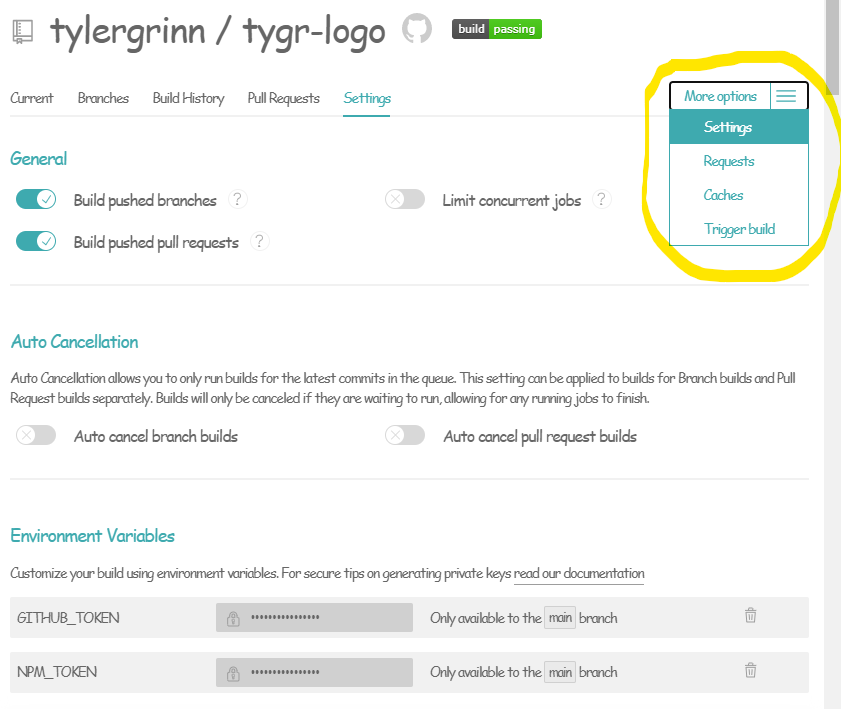
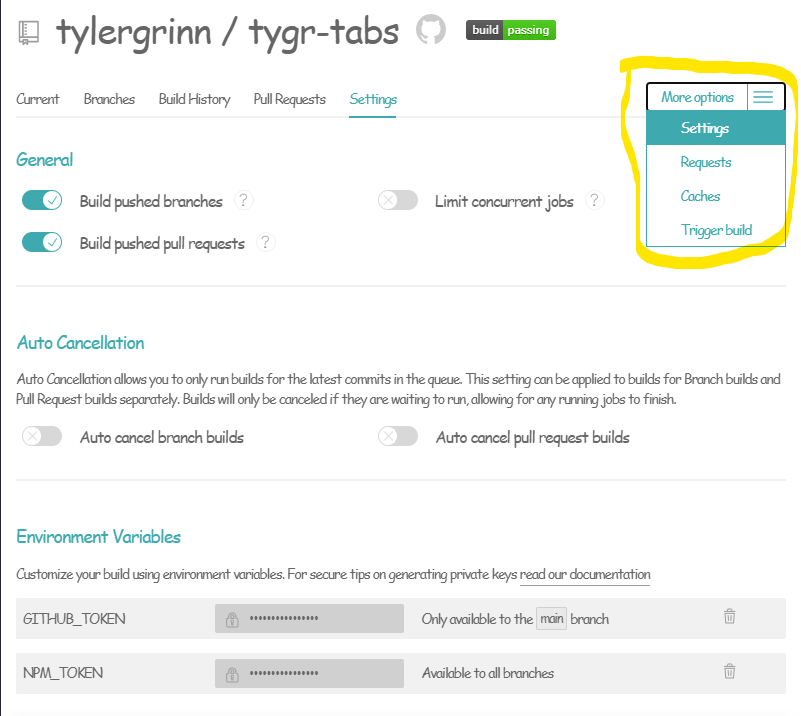
Updated travis env variable instructions

diff --git a/docs/forking.md b/docs/forking.md
@@ -38,6 +38,6 @@ Now, for every tag on the `main` git branch, travis will automatically deploy to
 
 This will allow the demo to be published on github pages. If you want to skip this step, remove the second item in the deploy array in the `.travis.yml` file.
 
-Otherwise, generate a [github token](https://github.com/settings/tokens) and add it as an environment variable.
+Otherwise, generate a [github token](https://github.com/settings/tokens) and add it as a bew GITHUB_TOKEN environment variable. You may restrict this variable to only the main branch.
 
 Now, each push to the main branch will deploy the demo website to github pages.
